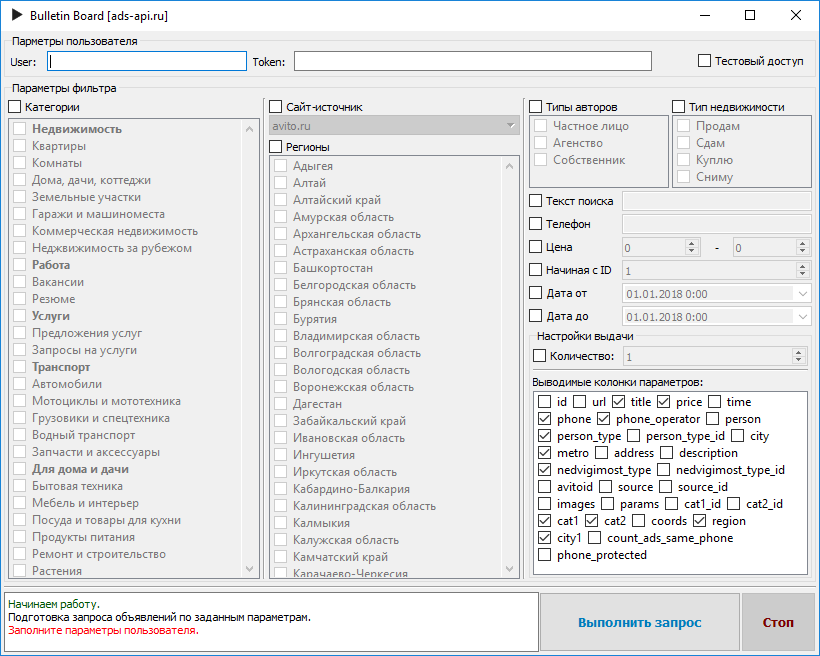
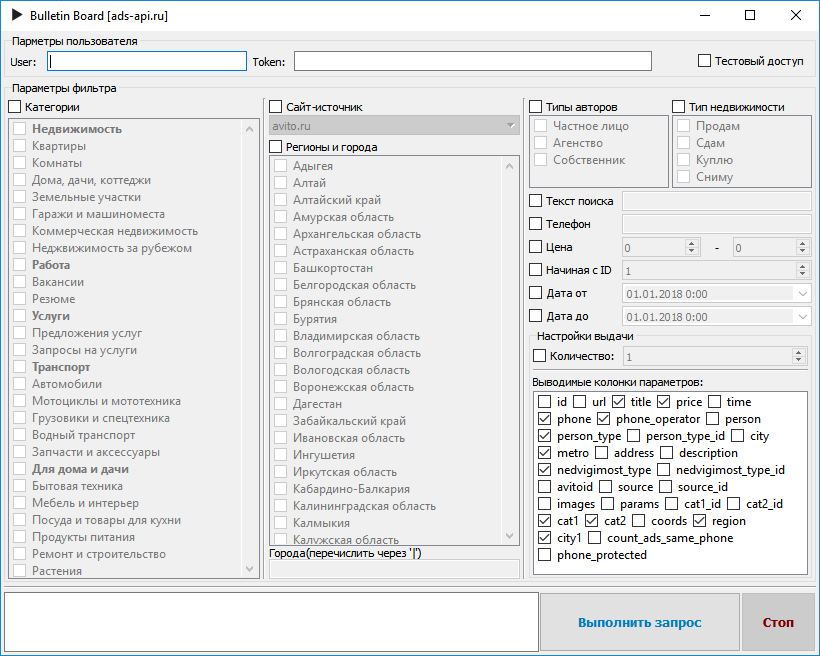
Fix region choose. Add line edit for custom city input.

diff --git a/mainwindow.cpp b/mainwindow.cpp
@@ -66,6 +66,7 @@ void MainWindow::SetupConfigs() {
     if(configs_.contains("city")) {
         ui->cb_city->setChecked(true);
         SetupCheckedInList(configs_["city"], ui->list_city);
+        ui->le_city->setText(configs_["le_city"]);
     }
     if(configs_.contains("person_type")) {
         ui->cb_person_type->setChecked(true);
@@ -148,19 +149,20 @@ void MainWindow::SaveCurrentParameters() {
         configs_["test_account"] = "test_account";
     }
     if(ui->cb_categories->isChecked()) {
-        configs_["categories"] = GetCheckedAsCSV(ui->list_categories, ",", false);
+        configs_["categories"] = GetCheckedAsCSV(ui->list_categories, ",", GetCheckedType::kListId);
     }
     if(ui->cb_source->isChecked()) {
         configs_["source"] = QString::number(ui->cb_source_2->currentIndex());
     }
     if(ui->cb_city->isChecked()) {
-        configs_["city"] = GetCheckedAsCSV(ui->list_city, ",", false);
+        configs_["city"] = GetCheckedAsCSV(ui->list_city, ",", GetCheckedType::kListId);
+        configs_["le_city"] = ui->le_city->text();
     }
     if(ui->cb_person_type->isChecked()) {
-        configs_["person_type"] = GetCheckedAsCSV(ui->list_person_type, ",", false);
+        configs_["person_type"] = GetCheckedAsCSV(ui->list_person_type, ",", GetCheckedType::kListId);
     }
     if(ui->cb_nedvigimost_type->isChecked()) {
-        configs_["nedvigimost_type"] = GetCheckedAsCSV(ui->list_nedvigimost_type, ",", false);
+        configs_["nedvigimost_type"] = GetCheckedAsCSV(ui->list_nedvigimost_type, ",", GetCheckedType::kListId);
     }
     if(ui->cb_q->isChecked()) {
         configs_["q"] = ui->le_q->text();
@@ -183,7 +185,7 @@ void MainWindow::SaveCurrentParameters() {
     if(ui->cb_limit->isChecked()) {
         configs_["limit"] = QString::number(ui->sb_limit->value());
     }
-    configs_["out"] = GetCheckedAsCSV(ui->list_out, ",", false);
+    configs_["out"] = GetCheckedAsCSV(ui->list_out, ",", GetCheckedType::kListId);
 
     QFile file_out(QCoreApplication::applicationDirPath() + "/config.ini");
     QString config_content = "";
@@ -251,7 +253,7 @@ void MainWindow::SendQuery() {
         QNetworkRequest request(url);
         debugRequest(request);
         QNetworkReply *reply = manager.get(request);
-        LogMessage("Получаем ответ от сервера.");
+        LogMessage("Получаем ответ от сервера.", kLogColorGray);
         while(!reply->isFinished()) {
             qApp->processEvents();
         }
@@ -271,7 +273,7 @@ void MainWindow::SendQuery() {
 
     if(parts_count_>0) {
         LogMessage("Результаты сохранены в файл: " + file_path_, kLogColorGreen);
-        LogMessage("Всего строк: " + QString::number(bulletin_sum_) + ", в " + QString::number(parts_count_) + " частях.", kLogColorGreen);
+        LogMessage("Всего строк: " + QString::number(bulletin_sum_) + ", в " + QString::number(parts_count_) + " частях.", kLogColorGray);
     }
 
     last_bulletin_count_ = 0;
@@ -290,7 +292,7 @@ void MainWindow::StopRun() {
 }
 
 bool MainWindow::FormQuery(QUrlQuery* query) {
-    LogMessage("Подготовка запроса объявлений по заданным параметрам.");
+    LogMessage("Подготовка запроса объявлений по заданным параметрам.", kLogColorGreen);
     const QString& user_name = ui->le_user->text();
     if(user_name.isEmpty() ||  ui->le_token->text().isEmpty()) {
         QMessageBox::critical(this,"Ошибка","Заполните параметры пользователя.");
@@ -312,30 +314,32 @@ bool MainWindow::FormQuery(QUrlQuery* query) {
         dir.mkpath(file_path_);
     }
 
+    file_path_+= "o" + QString::number(GetCheckedCount(ui->list_out));
+
     if(ui->cb_categories->isChecked()) {
-        QString cats = GetCheckedAsCSV(ui->list_categories, ",");
-        file_path_+="c" + cats;
+        QString cats = GetCheckedAsCSV(ui->list_categories, ",", GetCheckedType::kToolTip);
+        file_path_+="_cat" + cats;
         query->addQueryItem("category_id", cats);
     }
     if(ui->cb_q->isChecked()) {
-        file_path_+="q" + ui->le_q->text();
+        file_path_+="_q" + ui->le_q->text();
         query->addQueryItem("q", ui->le_q->text());
     }
     if(ui->cb_price->isChecked()) {
         QString price1 = QString::number(ui->sb_price1->value());
         QString price2 = QString::number(ui->sb_price2->value());
-        file_path_+="p" + price1 + "-" + price2;
+        file_path_+="_p" + price1 + "-" + price2;
         query->addQueryItem("price1", price1);
         query->addQueryItem("price2", price2);
     }
 
     if(ui->cb_date1->isChecked()) {
-        file_path_+="d1" + ui->date_date1->dateTime().toString("yyyy-MM-dd_hh.mm.ss");
+        file_path_+="_d1" + ui->date_date1->dateTime().toString("yyyy-MM-dd_hh.mm.ss");
         query->addQueryItem("date1", ui->date_date1->dateTime().toString("yyyy-MM-dd hh:mm:ss"));
         serf_by_date_ = true;
     }
     if(ui->cb_date2->isChecked()) {
-        file_path_+="d2" + ui->date_date2->dateTime().toString("yyyy-MM-dd_hh.mm.ss");
+        file_path_+="_d2" + ui->date_date2->dateTime().toString("yyyy-MM-dd_hh.mm.ss");
         query->addQueryItem("date2", ui->date_date2->dateTime().toString("yyyy-MM-dd hh:mm:ss"));
         serf_by_date_ = true;
     }
@@ -344,31 +348,33 @@ bool MainWindow::FormQuery(QUrlQuery* query) {
         serf_by_date_ = false;
     }
     if(ui->cb_person_type->isChecked()) {
-        QString pt = GetCheckedAsCSV(ui->list_person_type, ",");
-        file_path_+="pt" + pt;
+        QString pt = GetCheckedAsCSV(ui->list_person_type, ",", GetCheckedType::kToolTip);
+        file_path_+="_pt" + pt;
         query->addQueryItem("person_type", pt);
     }
     if(ui->cb_city->isChecked()) {
-        QString regions = GetCheckedAsCSV(ui->list_city, "|");
-        file_path_ += "r" + regions;
-        query->addQueryItem("city", GetCheckedAsCSV(ui->list_city, regions));
+        QString regions = GetCheckedAsCSV(ui->list_city, ",", GetCheckedType::kListId);
+        file_path_ += "_c" + regions + (ui->le_city->text().isEmpty() ? "" : ("," + ui->le_city->text()));
+        regions = GetCheckedAsCSV(ui->list_city, "|", GetCheckedType::kName)  + (ui->le_city->text().isEmpty() ? "" : ("|" + ui->le_city->text()));
+        query->addQueryItem("city", regions);
+
     }
     if(ui->cb_nedvigimost_type->isChecked()) {
-        QString nt = GetCheckedAsCSV(ui->list_nedvigimost_type, ",");
-        file_path_ += "nt" + nt;
-        query->addQueryItem("nedvigimost_type", GetCheckedAsCSV(ui->list_nedvigimost_type, ","));
+        QString nt = GetCheckedAsCSV(ui->list_nedvigimost_type, ",", GetCheckedType::kToolTip);
+        file_path_ += "_nt" + nt;
+        query->addQueryItem("nedvigimost_type", nt);
     }
     if(ui->cb_phone->isChecked()) {
         query->addQueryItem("phone", ui->le_phone->text());
     }
     if(ui->cb_source->isChecked()) {
         QString source = QString::number(ui->cb_source_2->currentIndex()+1);
-        file_path_ += "s" + source;
+        file_path_ += "_s" + source;
         query->addQueryItem("source", source);
     }
     query->addQueryItem("limit", QString::number(kLimitPerQuery));
 
-    file_path_+= "o" + QString::number(GetCheckedCount(ui->list_out)) + ".csv";
+    file_path_+= ".csv";
     return true;
 }
 
@@ -378,10 +384,25 @@ void MainWindow::SetDisabledWhileRun(bool disable) {
     ui->pb_stop->setEnabled(disable);
 }
 
-QString MainWindow::GetCheckedAsCSV(QListWidget* list, const QString& del, bool use_tooltip) {
+QString MainWindow::GetCheckedAsCSV(QListWidget* list, const QString& del, GetCheckedType get_type) {
     QString value = "";
 
-    if(use_tooltip) {
+    switch (get_type) {
+    case GetCheckedType::kListId:
+    {
+        for(int row = 0; row < list->count(); row++)
+        {
+            if(list->item(row)->checkState() == Qt::Checked) {
+                if(!value.isEmpty()) {
+                    value += del;
+                }
+                value += QString::number(row);
+            }
+        }
+        break;
+    }
+    case GetCheckedType::kToolTip:
+    {
         for(int row = 0; row < list->count(); row++)
         {
             const auto& item = list->item(row);
@@ -392,18 +413,25 @@ QString MainWindow::GetCheckedAsCSV(QListWidget* list, const QString& del, bool 
                 value += item->toolTip();
             }
         }
-    } else {
+        break;
+    }
+    case GetCheckedType::kName:
+    {
         for(int row = 0; row < list->count(); row++)
         {
-            if(list->item(row)->checkState() == Qt::Checked) {
+            const auto& item = list->item(row);
+            if(item->checkState() == Qt::Checked) {
                 if(!value.isEmpty()) {
                     value += del;
                 }
-                value += QString::number(row);
+                value += item->text();
             }
         }
+        break;
     }
-
+    default:
+        break;
+    }
     return value;
 }
 
@@ -489,7 +517,7 @@ void MainWindow::HandleResponse(const QJsonDocument& response){
             return;
         }
 
-        LogMessage("Обработка и запись " + QString::number(parts_count_+1) + " части(всего " + QString::number(bulletin_sum_) + " строк) в *.csv файл.");
+        LogMessage("Обработка и запись " + QString::number(parts_count_+1) + " части(всего " + QString::number(bulletin_sum_) + " строк) в *.csv файл.", kLogColorGray);
         qDebug() << QString(response.toJson(QJsonDocument::Compact));
         qDebug() << file_path_;
         QFile file_out(file_path_);
@@ -573,11 +601,7 @@ void MainWindow::JSONArrayToText(const QJsonArray& array, QString& value, const 
 }
 
 void  MainWindow::LogMessage(const QString& msg, QString color){
-    if(color.isEmpty()){
-        ui->text_logs->append(msg);
-    } else {
-        ui->text_logs->append("<span style=\" color:" + color + ";\">" + msg +  "</span>");
-    }
+    ui->text_logs->append("<span style=\" color:" + color + ";\">" + msg +  "</span>");
 }
 
 void  MainWindow::ChangeDefaultLimit(bool is_test_account) {

diff --git a/mainwindow.h b/mainwindow.h
@@ -15,6 +15,8 @@ class MainWindow : public QMainWindow
 {
     Q_OBJECT
 
+    enum GetCheckedType{kListId, kToolTip, kName};
+
 public:
     explicit MainWindow(QWidget *parent = 0);
     ~MainWindow();
@@ -27,12 +29,12 @@ private:
 
     bool FormQuery(QUrlQuery* query);
     void HandleResponse(const QJsonDocument& response);
-    QString GetCheckedAsCSV(QListWidget* list, const QString& del, bool use_tooltip = true);
+    QString GetCheckedAsCSV(QListWidget* list, const QString& del, GetCheckedType get_type);
     QStringList GetCheckedList(QListWidget* list);
     int GetCheckedCount(QListWidget* list);
     void JSONArrayToText(const QJsonArray& array, QString& value, const QString& del = ",");
     void ClearStringFromTrash(QString& data);
-    void LogMessage(const QString& msg, QString color = "");
+    void LogMessage(const QString& msg, QString color);
 
 
     Ui::MainWindow *ui;

diff --git a/README.md b/README.md
@@ -1,4 +1,4 @@
-# GUI Client for ads-api.ru
+# GUI Client for ads-api.ru
 Qt Project for ads-api.ru. (bulletin board parser)
 
 Разрабатывалось для Windows под собственные нужды, но ввиду кросплатформенности Qt легко переносится и на другие системы.
@@ -6,7 +6,7 @@ Qt Project for ads-api.ru. (bulletin board parser)
 ## Интерфейс программы представлен на скриншоте
 ![alt text](https://github.com/IMelker/GUI-Client-for-ads-api.ru/blob/master/interface.png?raw=true)
 
-Скачать скомпилированные исходники можно по ссылке: [скачать скомпилированную программу](https://yadi.sk/d/gBRA1FEi3W4M9f)
+Скачать скомпилированные исходники можно по ссылке: [скачать скомпилированную программу](https://yadi.sk/d/yPSt5fTT3W4brD)
 
 ## Описание работы
 Для пользования клиентом необходимо зарегистрироваться на сайте [ads-api.ru](http://ads-api.ru/) и получить token.
